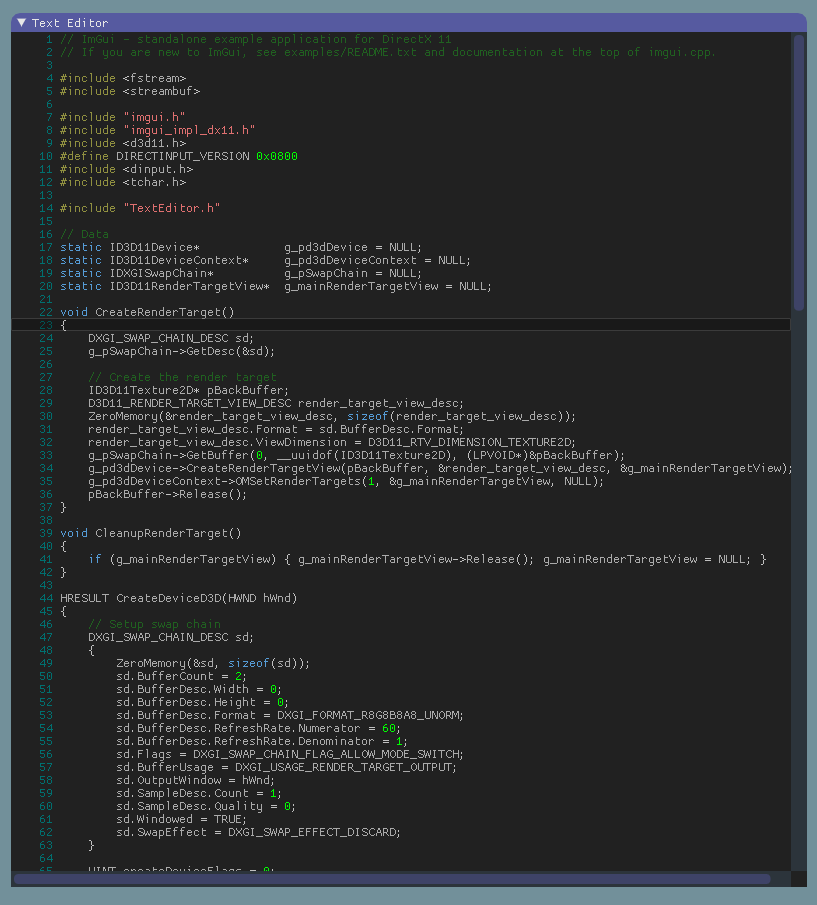
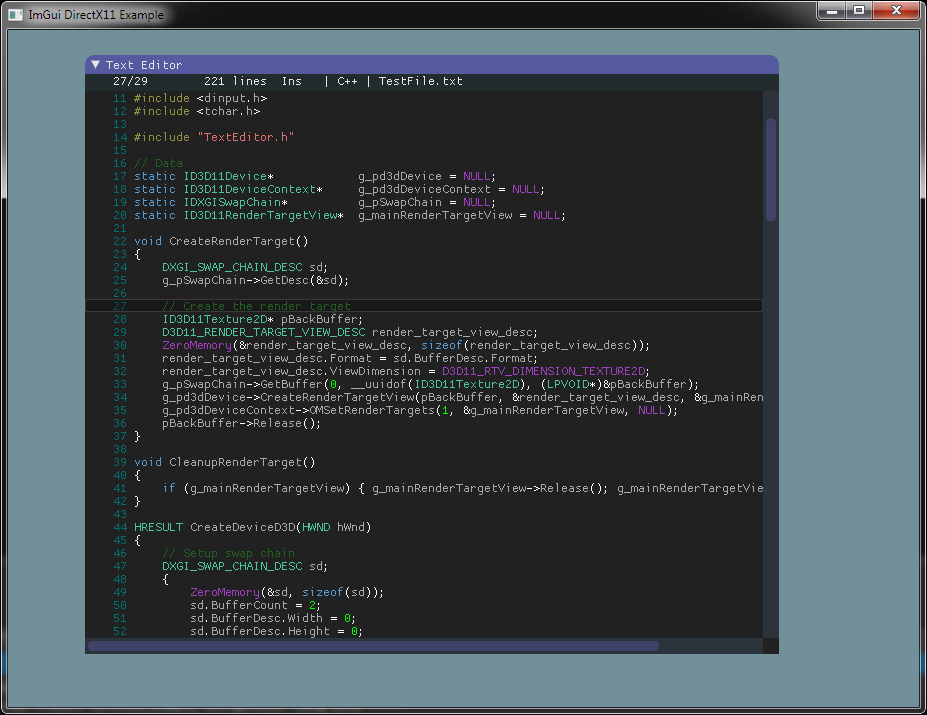
Updated example: added preprocessor and normal identifier samples. Current line indicator is not rendered when text is selected.

diff --git a/main.cpp b/main.cpp
@@ -21,157 +21,183 @@ static ID3D11RenderTargetView*  g_mainRenderTargetView = NULL;
 
 void CreateRenderTarget()
 {
-    DXGI_SWAP_CHAIN_DESC sd;
-    g_pSwapChain->GetDesc(&sd);
+	DXGI_SWAP_CHAIN_DESC sd;
+	g_pSwapChain->GetDesc(&sd);
 
-    // Create the render target
-    ID3D11Texture2D* pBackBuffer;
-    D3D11_RENDER_TARGET_VIEW_DESC render_target_view_desc;
-    ZeroMemory(&render_target_view_desc, sizeof(render_target_view_desc));
-    render_target_view_desc.Format = sd.BufferDesc.Format;
-    render_target_view_desc.ViewDimension = D3D11_RTV_DIMENSION_TEXTURE2D;
-    g_pSwapChain->GetBuffer(0, __uuidof(ID3D11Texture2D), (LPVOID*)&pBackBuffer);
-    g_pd3dDevice->CreateRenderTargetView(pBackBuffer, &render_target_view_desc, &g_mainRenderTargetView);
-    g_pd3dDeviceContext->OMSetRenderTargets(1, &g_mainRenderTargetView, NULL);
-    pBackBuffer->Release();
+	// Create the render target
+	ID3D11Texture2D* pBackBuffer;
+	D3D11_RENDER_TARGET_VIEW_DESC render_target_view_desc;
+	ZeroMemory(&render_target_view_desc, sizeof(render_target_view_desc));
+	render_target_view_desc.Format = sd.BufferDesc.Format;
+	render_target_view_desc.ViewDimension = D3D11_RTV_DIMENSION_TEXTURE2D;
+	g_pSwapChain->GetBuffer(0, __uuidof(ID3D11Texture2D), (LPVOID*)&pBackBuffer);
+	g_pd3dDevice->CreateRenderTargetView(pBackBuffer, &render_target_view_desc, &g_mainRenderTargetView);
+	g_pd3dDeviceContext->OMSetRenderTargets(1, &g_mainRenderTargetView, NULL);
+	pBackBuffer->Release();
 }
 
 void CleanupRenderTarget()
 {
-    if (g_mainRenderTargetView) { g_mainRenderTargetView->Release(); g_mainRenderTargetView = NULL; }
+	if (g_mainRenderTargetView) { g_mainRenderTargetView->Release(); g_mainRenderTargetView = NULL; }
 }
 
 HRESULT CreateDeviceD3D(HWND hWnd)
 {
-    // Setup swap chain
-    DXGI_SWAP_CHAIN_DESC sd;
-    {
-        ZeroMemory(&sd, sizeof(sd));
-        sd.BufferCount = 2;
-        sd.BufferDesc.Width = 0;
-        sd.BufferDesc.Height = 0;
-        sd.BufferDesc.Format = DXGI_FORMAT_R8G8B8A8_UNORM;
-        sd.BufferDesc.RefreshRate.Numerator = 60;
-        sd.BufferDesc.RefreshRate.Denominator = 1;
-        sd.Flags = DXGI_SWAP_CHAIN_FLAG_ALLOW_MODE_SWITCH;
-        sd.BufferUsage = DXGI_USAGE_RENDER_TARGET_OUTPUT;
-        sd.OutputWindow = hWnd;
-        sd.SampleDesc.Count = 1;
-        sd.SampleDesc.Quality = 0;
-        sd.Windowed = TRUE;
-        sd.SwapEffect = DXGI_SWAP_EFFECT_DISCARD;
-    }
+	// Setup swap chain
+	DXGI_SWAP_CHAIN_DESC sd;
+	{
+		ZeroMemory(&sd, sizeof(sd));
+		sd.BufferCount = 2;
+		sd.BufferDesc.Width = 0;
+		sd.BufferDesc.Height = 0;
+		sd.BufferDesc.Format = DXGI_FORMAT_R8G8B8A8_UNORM;
+		sd.BufferDesc.RefreshRate.Numerator = 60;
+		sd.BufferDesc.RefreshRate.Denominator = 1;
+		sd.Flags = DXGI_SWAP_CHAIN_FLAG_ALLOW_MODE_SWITCH;
+		sd.BufferUsage = DXGI_USAGE_RENDER_TARGET_OUTPUT;
+		sd.OutputWindow = hWnd;
+		sd.SampleDesc.Count = 1;
+		sd.SampleDesc.Quality = 0;
+		sd.Windowed = TRUE;
+		sd.SwapEffect = DXGI_SWAP_EFFECT_DISCARD;
+	}
 
-    UINT createDeviceFlags = 0;
-    //createDeviceFlags |= D3D11_CREATE_DEVICE_DEBUG;
-    D3D_FEATURE_LEVEL featureLevel;
-    const D3D_FEATURE_LEVEL featureLevelArray[1] = { D3D_FEATURE_LEVEL_11_0, };
-    if (D3D11CreateDeviceAndSwapChain(NULL, D3D_DRIVER_TYPE_HARDWARE, NULL, createDeviceFlags, featureLevelArray, 1, D3D11_SDK_VERSION, &sd, &g_pSwapChain, &g_pd3dDevice, &featureLevel, &g_pd3dDeviceContext) != S_OK)
-        return E_FAIL;
+	UINT createDeviceFlags = 0;
+	//createDeviceFlags |= D3D11_CREATE_DEVICE_DEBUG;
+	D3D_FEATURE_LEVEL featureLevel;
+	const D3D_FEATURE_LEVEL featureLevelArray[1] = { D3D_FEATURE_LEVEL_11_0, };
+	if (D3D11CreateDeviceAndSwapChain(NULL, D3D_DRIVER_TYPE_HARDWARE, NULL, createDeviceFlags, featureLevelArray, 1, D3D11_SDK_VERSION, &sd, &g_pSwapChain, &g_pd3dDevice, &featureLevel, &g_pd3dDeviceContext) != S_OK)
+		return E_FAIL;
 
-    CreateRenderTarget();
+	CreateRenderTarget();
 
-    return S_OK;
+	return S_OK;
 }
 
 void CleanupDeviceD3D()
 {
-    CleanupRenderTarget();
-    if (g_pSwapChain) { g_pSwapChain->Release(); g_pSwapChain = NULL; }
-    if (g_pd3dDeviceContext) { g_pd3dDeviceContext->Release(); g_pd3dDeviceContext = NULL; }
-    if (g_pd3dDevice) { g_pd3dDevice->Release(); g_pd3dDevice = NULL; }
+	CleanupRenderTarget();
+	if (g_pSwapChain) { g_pSwapChain->Release(); g_pSwapChain = NULL; }
+	if (g_pd3dDeviceContext) { g_pd3dDeviceContext->Release(); g_pd3dDeviceContext = NULL; }
+	if (g_pd3dDevice) { g_pd3dDevice->Release(); g_pd3dDevice = NULL; }
 }
 
 extern LRESULT ImGui_ImplDX11_WndProcHandler(HWND hWnd, UINT msg, WPARAM wParam, LPARAM lParam);
 LRESULT WINAPI WndProc(HWND hWnd, UINT msg, WPARAM wParam, LPARAM lParam)
 {
-    if (ImGui_ImplDX11_WndProcHandler(hWnd, msg, wParam, lParam))
-        return true;
+	if (ImGui_ImplDX11_WndProcHandler(hWnd, msg, wParam, lParam))
+		return true;
 
-    switch (msg)
-    {
-    case WM_SIZE:
-        if (g_pd3dDevice != NULL && wParam != SIZE_MINIMIZED)
-        {
-            ImGui_ImplDX11_InvalidateDeviceObjects();
-            CleanupRenderTarget();
-            g_pSwapChain->ResizeBuffers(0, (UINT)LOWORD(lParam), (UINT)HIWORD(lParam), DXGI_FORMAT_UNKNOWN, 0);
-            CreateRenderTarget();
-            ImGui_ImplDX11_CreateDeviceObjects();
-        }
-        return 0;
-    case WM_SYSCOMMAND:
-        if ((wParam & 0xfff0) == SC_KEYMENU) // Disable ALT application menu
-            return 0;
-        break;
-    case WM_DESTROY:
-        PostQuitMessage(0);
-        return 0;
-    }
-    return DefWindowProc(hWnd, msg, wParam, lParam);
+	switch (msg)
+	{
+	case WM_SIZE:
+		if (g_pd3dDevice != NULL && wParam != SIZE_MINIMIZED)
+		{
+			ImGui_ImplDX11_InvalidateDeviceObjects();
+			CleanupRenderTarget();
+			g_pSwapChain->ResizeBuffers(0, (UINT)LOWORD(lParam), (UINT)HIWORD(lParam), DXGI_FORMAT_UNKNOWN, 0);
+			CreateRenderTarget();
+			ImGui_ImplDX11_CreateDeviceObjects();
+		}
+		return 0;
+	case WM_SYSCOMMAND:
+		if ((wParam & 0xfff0) == SC_KEYMENU) // Disable ALT application menu
+			return 0;
+		break;
+	case WM_DESTROY:
+		PostQuitMessage(0);
+		return 0;
+	}
+	return DefWindowProc(hWnd, msg, wParam, lParam);
 }
 
 int main(int, char**)
 {
-    // Create application window
-    WNDCLASSEX wc = { sizeof(WNDCLASSEX), CS_CLASSDC, WndProc, 0L, 0L, GetModuleHandle(NULL), NULL, LoadCursor(NULL, IDC_ARROW), NULL, NULL, _T("ImGui Example"), NULL };
-    RegisterClassEx(&wc);
-    HWND hwnd = CreateWindow(_T("ImGui Example"), _T("ImGui DirectX11 Example"), WS_OVERLAPPEDWINDOW, 100, 100, 1280, 800, NULL, NULL, wc.hInstance, NULL);
+	// Create application window
+	WNDCLASSEX wc = { sizeof(WNDCLASSEX), CS_CLASSDC, WndProc, 0L, 0L, GetModuleHandle(NULL), NULL, LoadCursor(NULL, IDC_ARROW), NULL, NULL, _T("ImGui Example"), NULL };
+	RegisterClassEx(&wc);
+	HWND hwnd = CreateWindow(_T("ImGui Example"), _T("ImGui DirectX11 Example"), WS_OVERLAPPEDWINDOW, 100, 100, 1280, 800, NULL, NULL, wc.hInstance, NULL);
 
-    // Initialize Direct3D
-    if (CreateDeviceD3D(hwnd) < 0)
-    {
-        CleanupDeviceD3D();
-        UnregisterClass(_T("ImGui Example"), wc.hInstance);
-        return 1;
-    }
+	// Initialize Direct3D
+	if (CreateDeviceD3D(hwnd) < 0)
+	{
+		CleanupDeviceD3D();
+		UnregisterClass(_T("ImGui Example"), wc.hInstance);
+		return 1;
+	}
 
-    // Show the window
-    ShowWindow(hwnd, SW_SHOWDEFAULT);
-    UpdateWindow(hwnd);
+	// Show the window
+	ShowWindow(hwnd, SW_SHOWDEFAULT);
+	UpdateWindow(hwnd);
 
-    // Setup ImGui binding
-    ImGui_ImplDX11_Init(hwnd, g_pd3dDevice, g_pd3dDeviceContext);
+	// Setup ImGui binding
+	ImGui_ImplDX11_Init(hwnd, g_pd3dDevice, g_pd3dDeviceContext);
 
-    // Load Fonts
-    // (there is a default font, this is only if you want to change it. see extra_fonts/README.txt for more details)
-    ImGuiIO& io = ImGui::GetIO();
-    //io.Fonts->AddFontDefault();
-    //io.Fonts->AddFontFromFileTTF("../../extra_fonts/Cousine-Regular.ttf", 15.0f);
-    //io.Fonts->AddFontFromFileTTF("../../extra_fonts/DroidSans.ttf", 16.0f);
+	// Load Fonts
+	// (there is a default font, this is only if you want to change it. see extra_fonts/README.txt for more details)
+	ImGuiIO& io = ImGui::GetIO();
+	//io.Fonts->AddFontDefault();
+	//io.Fonts->AddFontFromFileTTF("../../extra_fonts/Cousine-Regular.ttf", 15.0f);
+	//io.Fonts->AddFontFromFileTTF("../../extra_fonts/DroidSans.ttf", 16.0f);
 	//io.Fonts->AddFontFromFileTTF("../../extra_fonts/ProggyClean.ttf", 13.0f);
-    //io.Fonts->AddFontFromFileTTF("../../extra_fonts/ProggyTiny.ttf", 10.0f);
-    //io.Fonts->AddFontFromFileTTF("c:\\Windows\\Fonts\\ArialUni.ttf", 18.0f, NULL, io.Fonts->GetGlyphRangesJapanese());
+	//io.Fonts->AddFontFromFileTTF("../../extra_fonts/ProggyTiny.ttf", 10.0f);
+	//io.Fonts->AddFontFromFileTTF("c:\\Windows\\Fonts\\ArialUni.ttf", 18.0f, NULL, io.Fonts->GetGlyphRangesJapanese());
 
-    bool show_test_window = true;
-    bool show_another_window = false;
-    ImVec4 clear_col = ImColor(114, 144, 154);
+	bool show_test_window = true;
+	bool show_another_window = false;
+	ImVec4 clear_col = ImColor(114, 144, 154);
 
 	TextEditor editor;
-	editor.SetLanguageDefinition(TextEditor::LanguageDefinition::CPlusPlus());
+	auto lang = TextEditor::LanguageDefinition::CPlusPlus();
 
-	std::ifstream t("TextEditor.cpp");
+	// set your own known preprocessor nanmes
+	static const char* ppnames[] = { "NULL", "PM_REMOVE",
+		"ZeroMemory", "DXGI_SWAP_EFFECT_DISCARD", "D3D_FEATURE_LEVEL", "D3D_DRIVER_TYPE_HARDWARE", "WINAPI","D3D11_SDK_VERSION",
+		"WM_SIZE", "SIZE_MINIMIZED", "SC_KEYMENU", "WNDCLASSEX", "CS_CLASSDC", "WM_SIZE", "WM_SYSCOMMAND", "WM_DESTROY", "IDC_ARROW", "WS_OVERLAPPEDWINDOW",
+		"WM_QUIT", "D3D11_RTV_DIMENSION_TEXTURE2D", "DIRECTINPUT_VERSION", "SW_SHOWDEFAULT", "S_OK", "E_FAIL", "D3D_FEATURE_LEVEL_11_0",
+		"DXGI_FORMAT_R8G8B8A8_UNORM", "DXGI_USAGE_RENDER_TARGET_OUTPUT", "DXGI_SWAP_CHAIN_FLAG_ALLOW_MODE_SWITCH", "DXGI_FORMAT_R8G8B8A8_UNORM", "TRUE" };
+	for (auto i : ppnames)
+		lang.mPreprocIdentifiers.insert(i);
+
+	// set your own identifiers
+	static const char* identifiers[] = {
+		"HRESULT", "LPRESULT","D3D11_RENDER_TARGET_VIEW_DESC", "HWND", "DXGI_SWAP_CHAIN_DESC","MSG","LRESULT","WPARAM", "LPARAM","UINT","LPVOID",
+		"ID3D11Device", "ID3D11DeviceContext", "ID3D11Buffer", "ID3D11Buffer", "ID3D10Blob", "ID3D11VertexShader", "ID3D11InputLayout", "ID3D11Buffer",
+		"ID3D10Blob", "ID3D11PixelShader", "ID3D11SamplerState", "ID3D11ShaderResourceView", "ID3D11RasterizerState", "ID3D11BlendState", "ID3D11DepthStencilState",
+		"IDXGISwapChain", "ID3D11RenderTargetView", "ID3D11Texture2D", "", "", "", "", "", "", "", "", };
+	for (auto i : identifiers)
+		lang.mIdentifiers.insert(i);
+
+	editor.SetLanguageDefinition(lang);
+
+	std::ifstream t("main.cpp");
 	std::string str((std::istreambuf_iterator<char>(t)),
-	std::istreambuf_iterator<char>());
+		std::istreambuf_iterator<char>());
 	editor.SetText(str);
 
-    // Main loop
-    MSG msg;
-    ZeroMemory(&msg, sizeof(msg));
-    while (msg.message != WM_QUIT)
-    {
-        if (PeekMessage(&msg, NULL, 0U, 0U, PM_REMOVE))
-        {
-            TranslateMessage(&msg);
-            DispatchMessage(&msg);
-            continue;
-        }
-        ImGui_ImplDX11_NewFrame();
+	// Main loop
+	MSG msg;
+	ZeroMemory(&msg, sizeof(msg));
+	while (msg.message != WM_QUIT)
+	{
+		if (PeekMessage(&msg, NULL, 0U, 0U, PM_REMOVE))
+		{
+			TranslateMessage(&msg);
+			DispatchMessage(&msg);
+			continue;
+		}
+		ImGui_ImplDX11_NewFrame();
 
 		ImGui::PushStyleColor(ImGuiCol_FrameBg, ImVec4(.13f, .13f, .13f, 1.0f));
 		ImGui::PushStyleVar(ImGuiStyleVar_WindowPadding, ImVec2(0.0f, 0.0f));
 
+		auto cpos = editor.GetCursorPosition();
 		ImGui::Begin("Text Editor", nullptr, ImGuiWindowFlags_HorizontalScrollbar);
+		ImGui::Text("%6d/%-6d %6d lines  %s %s | %s | %s", cpos.mLine + 1, cpos.mColumn + 1, editor.GetTotalLines(),
+			editor.IsOverwrite() ? "Ovr" : "Ins",
+			editor.CanUndo() ? "*" : " ",
+			editor.GetLanguageDefinition().mName.c_str(), "TestFile.txt");
+
 		editor.Render("TextEditor");
 		ImGui::End();
 
@@ -179,16 +205,16 @@ int main(int, char**)
 		ImGui::PopStyleColor();
 
 		// Rendering
-        g_pd3dDeviceContext->ClearRenderTargetView(g_mainRenderTargetView, (float*)&clear_col);
-        ImGui::Render();
+		g_pd3dDeviceContext->ClearRenderTargetView(g_mainRenderTargetView, (float*)&clear_col);
+		ImGui::Render();
 
-        g_pSwapChain->Present(1, 0); // Present with vsync
-        //g_pSwapChain->Present(0, 0); // Present without vsync
-    }
+		g_pSwapChain->Present(1, 0); // Present with vsync
+		//g_pSwapChain->Present(0, 0); // Present without vsync
+	}
 
-    ImGui_ImplDX11_Shutdown();
-    CleanupDeviceD3D();
-    UnregisterClass(_T("ImGui Example"), wc.hInstance);
+	ImGui_ImplDX11_Shutdown();
+	CleanupDeviceD3D();
+	UnregisterClass(_T("ImGui Example"), wc.hInstance);
 
-    return 0;
+	return 0;
 }

diff --git a/TextEditor.cpp b/TextEditor.cpp
@@ -36,7 +36,7 @@ TextEditor::TextEditor()
 	mPalette[(int)TokenType::CharLiteral] = 0xff70a0e0;
 	mPalette[(int)TokenType::Preprocessor] = 0xff409090;
 	mPalette[(int)TokenType::PreprocIdentifier] = 0xffc040a0;
-	mPalette[(int)TokenType::Punctuation] = 0xffc0c0c0;
+	mPalette[(int)TokenType::Punctuation] = 0xffffffff;
 
 	SetLanguageDefinition(LanguageDefinition::HLSL());
 }
@@ -481,10 +481,14 @@ void TextEditor::Render(const char* aTitle, const ImVec2& aSize, bool aBorder)
 			if (mState.mCursorPosition.mLine == lineNo)
 			{
 				auto focused = ImGui::IsWindowFocused();
-				auto start = ImVec2(lineStartScreenPos.x + scrollX, lineStartScreenPos.y);
-				auto end = ImVec2(start.x + contentSize.x + scrollX, start.y + mCharAdvance.y);
-				drawList->AddRectFilled(start, end, focused ? 0x40000000 : 0x40808080);
-				drawList->AddRect(start, end, 0x40a0a0a0, 1.0f);
+
+				if (!HasSelection())
+				{
+					auto start = ImVec2(lineStartScreenPos.x + scrollX, lineStartScreenPos.y);
+					auto end = ImVec2(start.x + contentSize.x + scrollX, start.y + mCharAdvance.y);
+					drawList->AddRectFilled(start, end, focused ? 0x40000000 : 0x40808080);
+					drawList->AddRect(start, end, 0x40a0a0a0, 1.0f);
+				}
 
 				int cx = TextDistanceToLineStart(mState.mCursorPosition);
 
